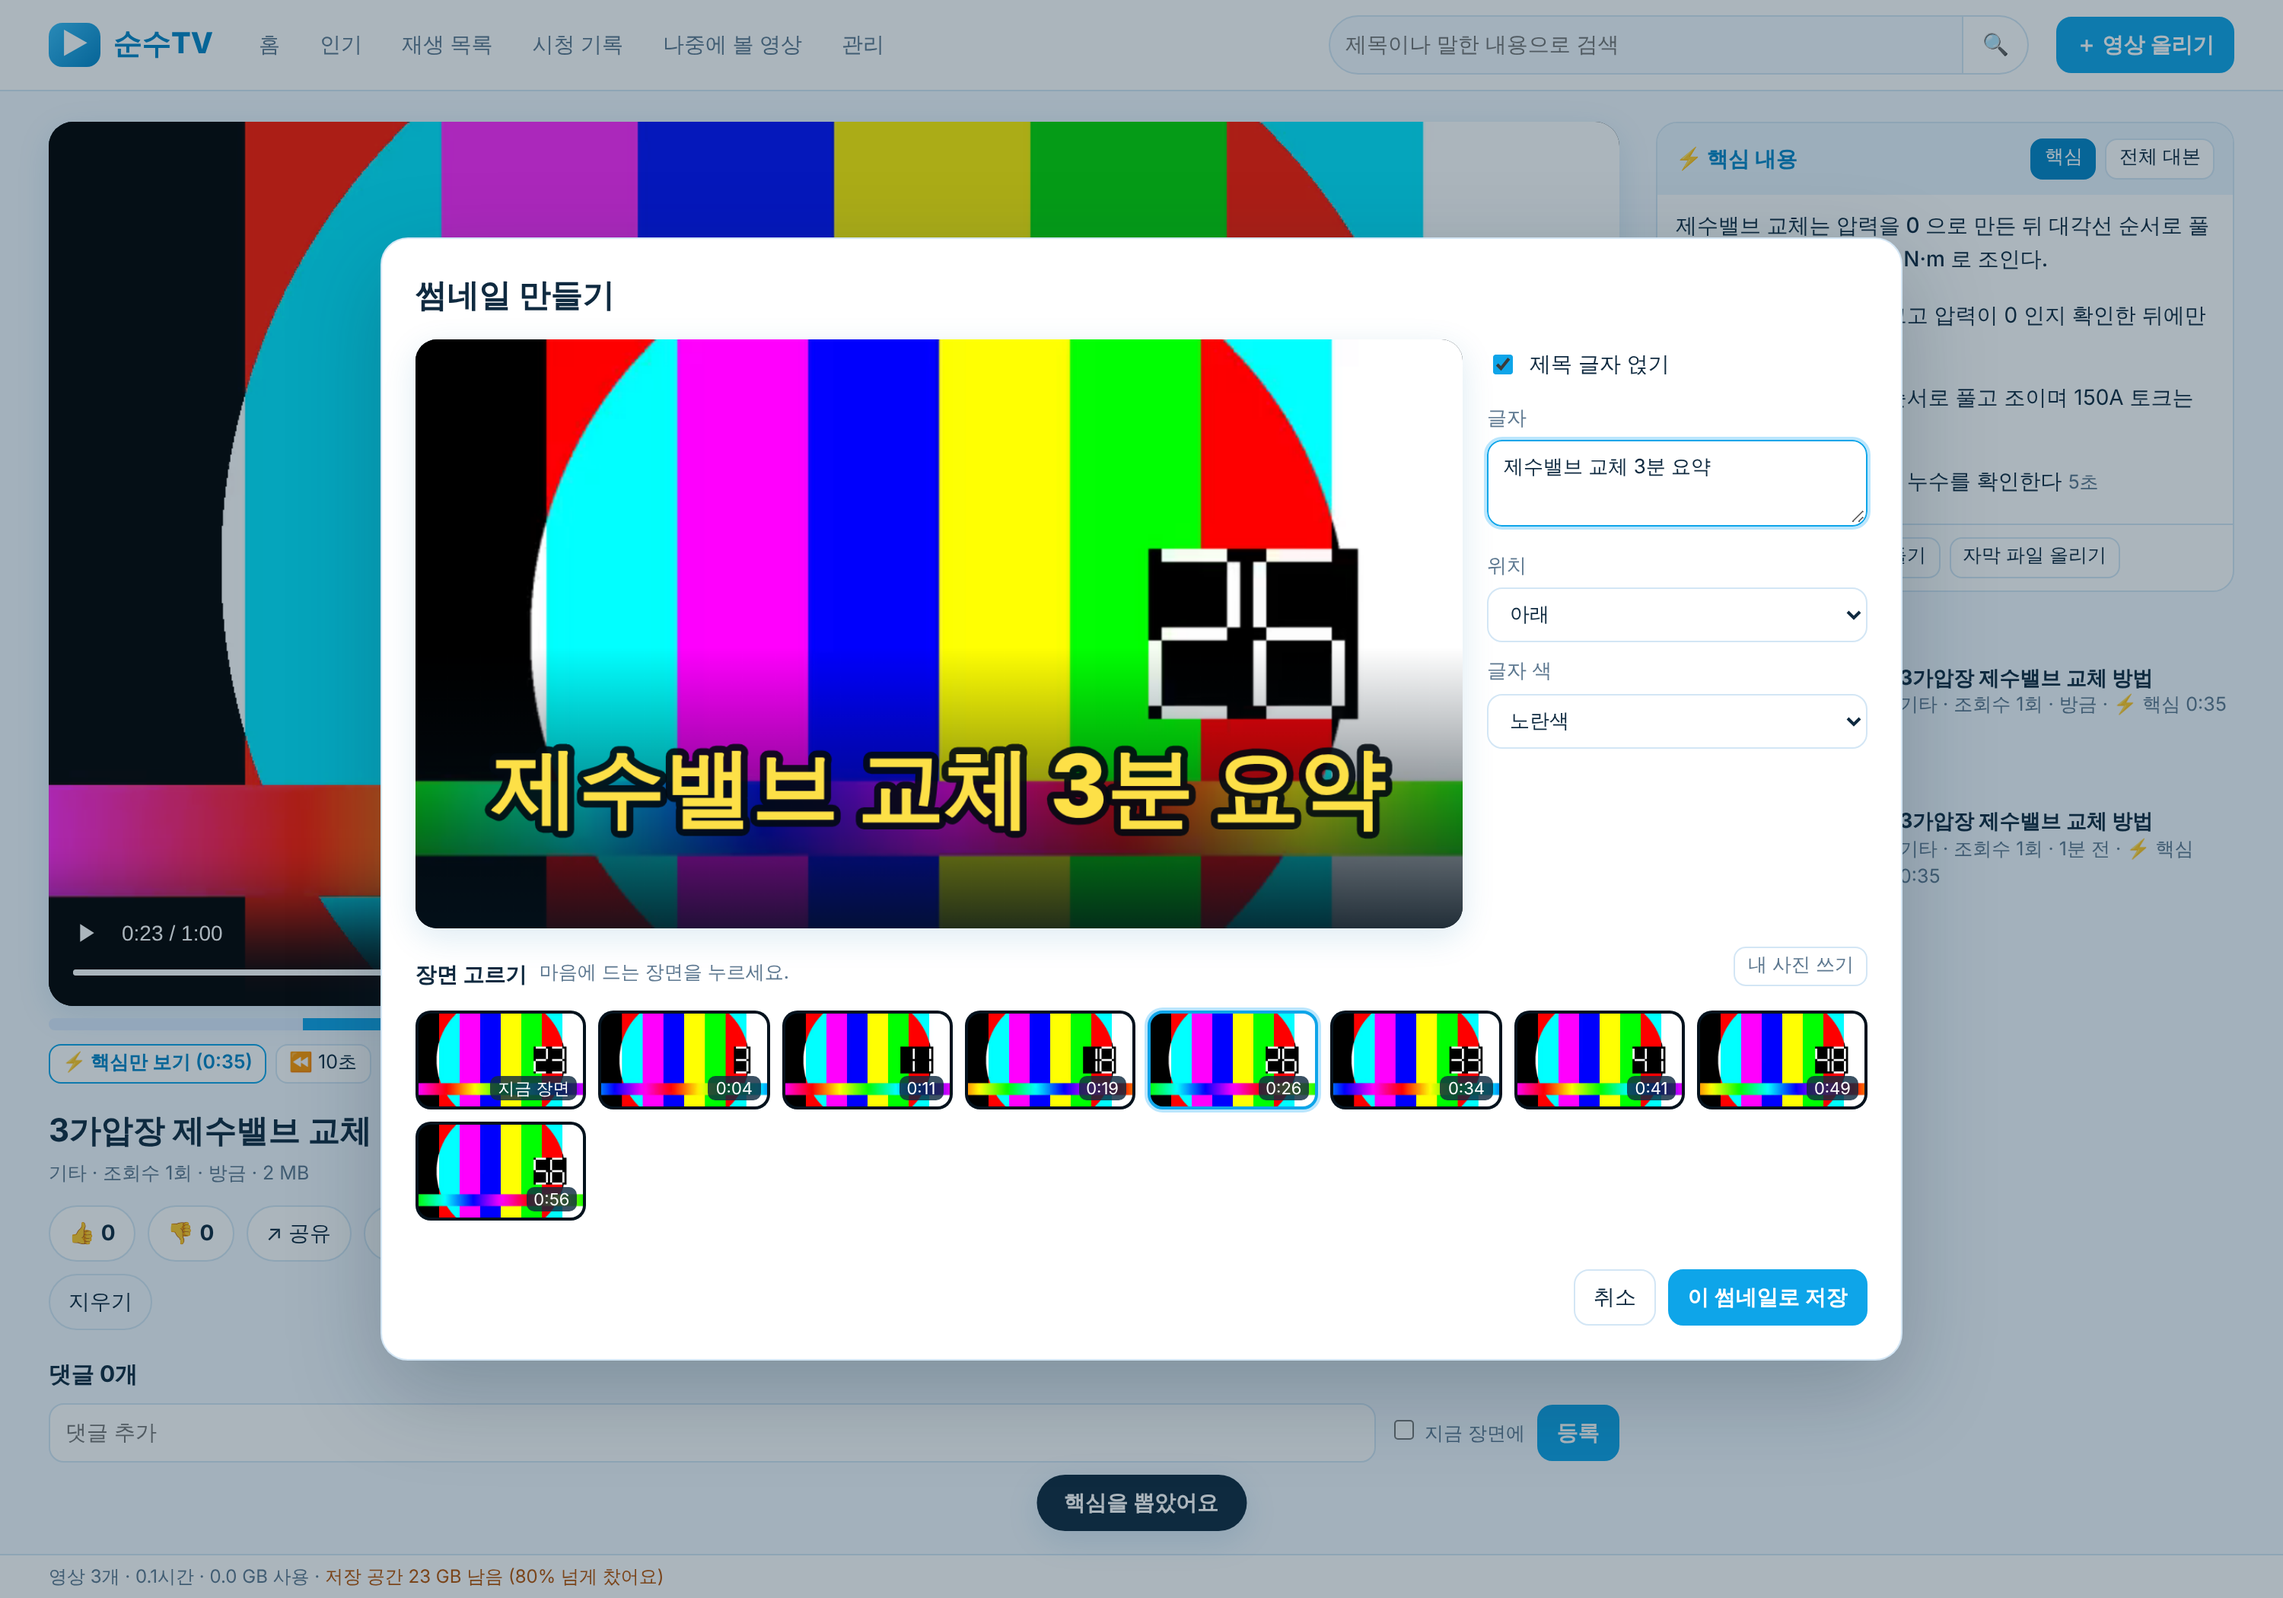
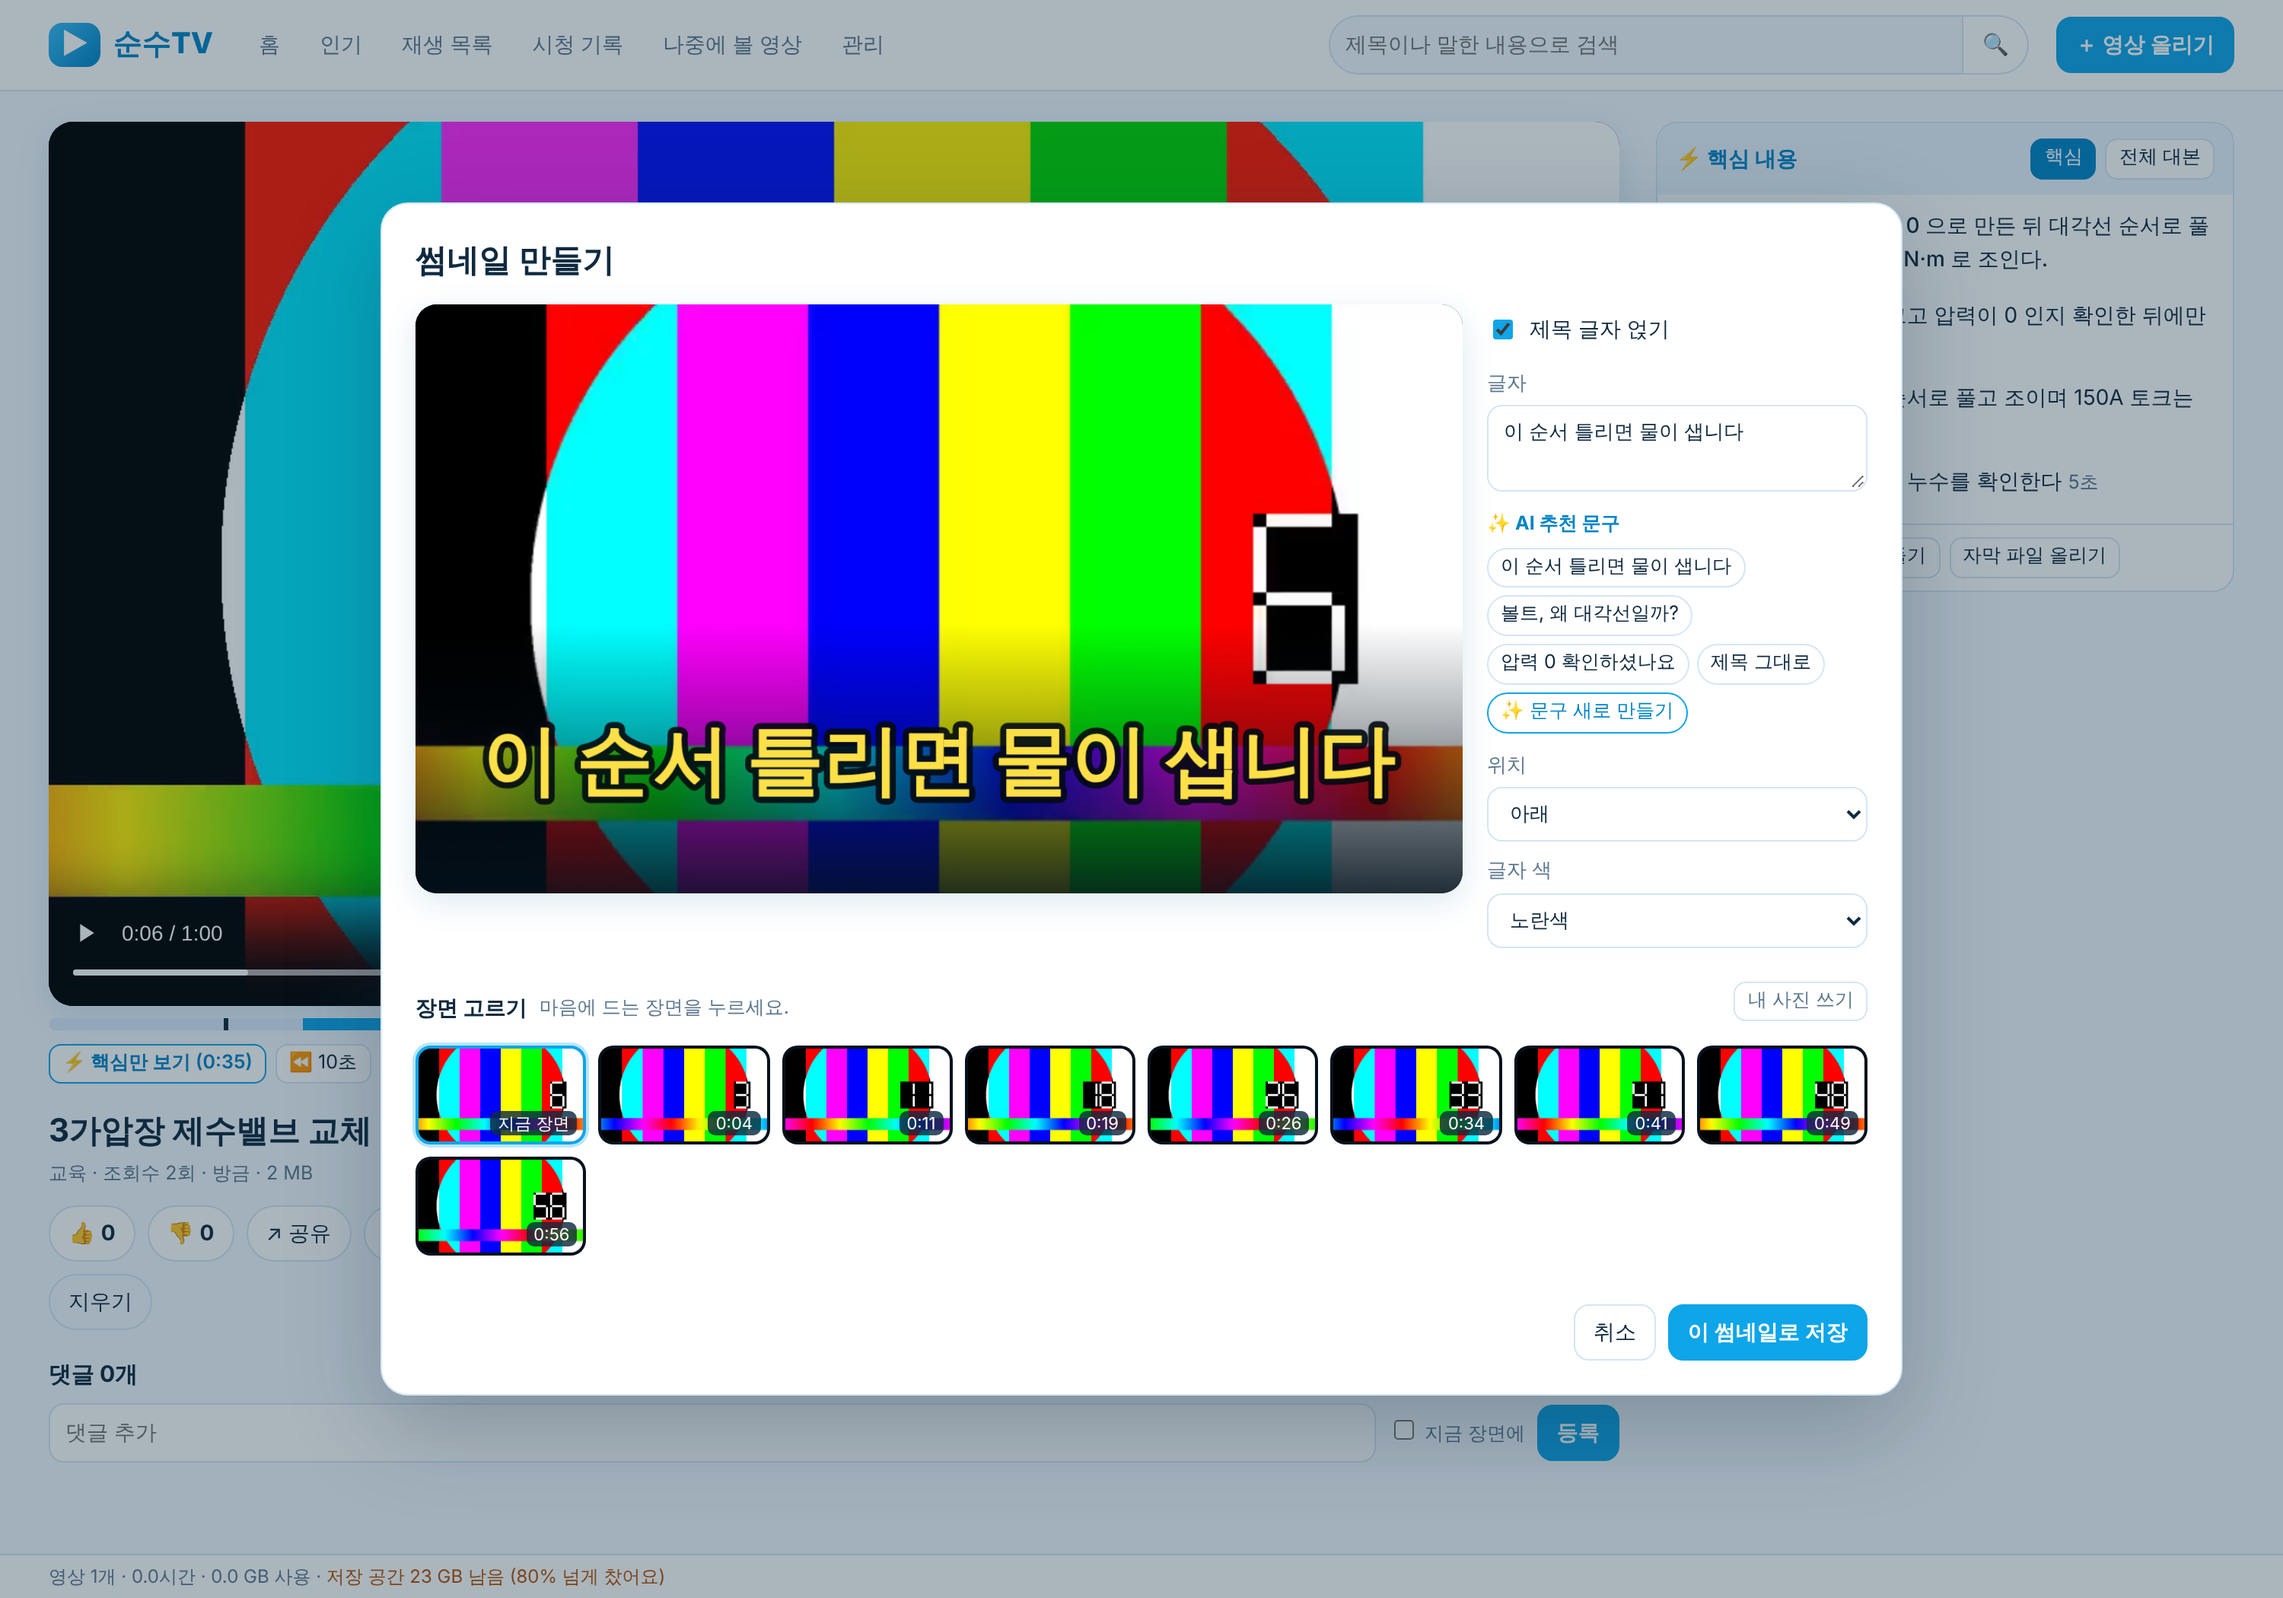
AI 썸네일: 영상 내용으로 문구를 만들고 핵심 장면에 얹어 자동으로 썸네일 만들기 (#14)
Claude-Session: https://claude.ai/code/session_01WFWMCxUpiuvt1NbcY57aW6

diff --git a/module/web/app.js b/module/web/app.js
@@ -233,11 +233,21 @@ function drawThumb(cv, frame, o) {
   g.textAlign = 'center'; g.textBaseline = 'top'; g.lineJoin = 'round'; g.lineWidth = sz * 0.16; g.strokeStyle = 'rgba(2,10,18,.9)'; g.fillStyle = { white: '#ffffff', yellow: '#fde047', sky: '#7dd3fc' }[o.color] || '#fff';
   lines.forEach((l, i) => { g.strokeText(l, W / 2, y0 + i * lh); g.fillText(l, W / 2, y0 + i * lh); });
 }
-function thumbPicker({ v, src, at }) {
+const paintFit = (canvas, img, iw, ih) => { const g = canvas.getContext('2d'), k = Math.min(canvas.width / iw, canvas.height / ih), w = iw * k, h = ih * k; g.fillStyle = '#04121d'; g.fillRect(0, 0, canvas.width, canvas.height); g.drawImage(img, (canvas.width - w) / 2, (canvas.height - h) / 2, w, h); };
+function composeThumb(src, t, o) {
+  return new Promise((resolve) => { const tv = document.createElement('video'), cv = document.createElement('canvas'), frame = document.createElement('canvas'); cv.width = frame.width = 1280; cv.height = frame.height = 720; tv.muted = true; tv.preload = 'auto';
+    const end = (b) => { clearTimeout(to); tv.removeAttribute('src'); tv.load(); resolve(b); }, to = setTimeout(() => end(null), 15000);
+    tv.addEventListener('error', () => end(null));
+    tv.addEventListener('loadeddata', () => { tv.addEventListener('seeked', () => { try { paintFit(frame, tv, tv.videoWidth || 16, tv.videoHeight || 9); drawThumb(cv, frame, o); cv.toBlob((b) => end(b), 'image/jpeg', 0.92); } catch { end(null); } }, { once: true });
+      tv.currentTime = Math.max(0, Math.min((tv.duration || 1) - 0.1, t)); }, { once: true });
+    tv.src = src; });
+}
+function thumbPicker({ v, src, at, hooks }) {
   return new Promise((resolve) => {
     const d = $('#dlg'); d.classList.add('wide');
     d.innerHTML = `<h2>썸네일 만들기</h2><div class="thgrid"><canvas id="thCv" width="1280" height="720"></canvas>
-        <div class="thopt"><label class="pick"><input type="checkbox" id="thOn" checked> 제목 글자 얹기</label><label>글자 <textarea id="thText" rows="2" maxlength="60">${esc(v.title)}</textarea></label>
+        <div class="thopt"><label class="pick"><input type="checkbox" id="thOn" checked> 제목 글자 얹기</label><label>글자 <textarea id="thText" rows="2" maxlength="60">${esc((hooks && hooks[0]) || v.title)}</textarea></label>
+          <div id="thHooks" class="thhooks"></div>
           <label>위치 <select id="thPos"><option value="bottom">아래</option><option value="mid">가운데</option><option value="top">위</option></select></label>
           <label>글자 색 <select id="thColor"><option value="white">흰색</option><option value="yellow">노란색</option><option value="sky">하늘색</option></select></label></div></div>
       <div class="row" style="justify-content:flex-start;margin:12px 0 6px"><b>장면 고르기</b><span class="meta">마음에 드는 장면을 누르세요.</span><span class="sp"></span><label class="filebtn"><input id="thFile" type="file" accept="image/*" hidden>내 사진 쓰기</label></div>
@@ -247,7 +257,10 @@ function thumbPicker({ v, src, at }) {
     const tv = document.createElement('video'); tv.muted = true; tv.preload = 'auto'; tv.src = src;
     const opt = () => ({ on: $('#thOn', d).checked, text: $('#thText', d).value, pos: $('#thPos', d).value, color: $('#thColor', d).value });
     const redraw = () => { if (has) drawThumb(cv, frame, opt()); $('#thSave', d).disabled = !has; };
-    const paint = (canvas, img, iw, ih) => { const g = canvas.getContext('2d'), k = Math.min(canvas.width / iw, canvas.height / ih), w = iw * k, h = ih * k; g.fillStyle = '#04121d'; g.fillRect(0, 0, canvas.width, canvas.height); g.drawImage(img, (canvas.width - w) / 2, (canvas.height - h) / 2, w, h); };
+    const paint = paintFit; let hk = hooks || [];
+    const drawHooks = () => { $('#thHooks', d).innerHTML = (hk.length ? '<b>✨ AI 추천 문구</b>' : '') + [...hk, v.title].map((h, i) => `<button class="small" data-h="${esc(h)}">${i === hk.length ? '제목 그대로' : esc(h)}</button>`).join('') + (meta.llm ? '<button class="small ghost" id="thMore">✨ 문구 새로 만들기</button>' : '');
+      $$('#thHooks [data-h]', d).forEach((b) => b.onclick = () => { $('#thText', d).value = b.dataset.h; redraw(); });
+      if ($('#thMore', d)) $('#thMore', d).onclick = async (e) => { e.target.disabled = true; e.target.textContent = '만드는 중…'; try { hk = (await api(`api/videos/${v.id}/hooks`, send('POST'))).hooks; if (hk[0]) { $('#thText', d).value = hk[0]; redraw(); } } catch (er) { $('#thMsg', d).textContent = er.message; } drawHooks(); }; };
     const grab = (t, canvas) => (chain = chain.then(() => new Promise((ok) => { if (settled) return ok(); const done = () => { clearTimeout(to); try { paint(canvas, tv, tv.videoWidth || 16, tv.videoHeight || 9); } catch { } ok(); }, to = setTimeout(done, 6000);
       tv.addEventListener('seeked', done, { once: true }); tv.currentTime = Math.max(0, Math.min((tv.duration || v.duration || 1) - 0.1, t)); })));
     const pick = async (t, el) => { $$('.thc', d).forEach((x) => x.classList.toggle('on', x === el)); await grab(t, frame); has = true; redraw(); };
@@ -259,6 +272,7 @@ function thumbPicker({ v, src, at }) {
     tv.addEventListener('error', () => { $('#thMsg', d).textContent = '영상에서 장면을 가져오지 못했어요. "내 사진 쓰기"로 사진을 올릴 수 있어요.'; });
     ['#thOn', '#thText', '#thPos', '#thColor'].forEach((q) => { $(q, d).oninput = redraw; });
     $('#thFile', d).onchange = (e) => { const f = e.target.files[0]; if (!f) return; const img = new Image(), url = URL.createObjectURL(f); img.onload = () => { paint(frame, img, img.naturalWidth, img.naturalHeight); URL.revokeObjectURL(url); has = true; $$('.thc', d).forEach((x) => x.classList.remove('on')); redraw(); }; img.onerror = () => { $('#thMsg', d).textContent = '사진을 읽지 못했어요. JPG 나 PNG 로 올려 주세요.'; }; img.src = url; };
+    drawHooks();
     $('#thCancel', d).onclick = () => finish(false);
     $('#thSave', d).onclick = () => cv.toBlob(async (blob) => { try { await api(`api/videos/${v.id}/thumb`, { method: 'PUT', headers: { 'Content-Type': 'image/jpeg' }, body: blob }); finish(true); } catch (e) { $('#thMsg', d).textContent = e.message; } }, 'image/jpeg', 0.92);
     d.addEventListener('close', () => finish(false), { once: true }); d.showModal();
@@ -393,8 +407,11 @@ async function watch(id, params) {
   }
   function watchInsight() { if (!P || !['queued', 'working'].includes(ins.status)) return; clearInterval(poll);
     poll = setInterval(async () => { const r = await api(`api/videos/${id}/insight`).catch(() => null); if (!r) return; const done = !['queued', 'working'].includes(r.insight.status);
-      if (done) { clearInterval(poll); poll = null; if (r.insight.points.length) toast('핵심을 뽑았어요'); } if (!editing && (done || r.insight.status !== ins.status)) { ins = r.insight; renderCore(); } }, 3000); }
-  renderCore(); watchInsight();
+      if (done) { clearInterval(poll); poll = null; if (r.insight.points.length) toast('핵심을 뽑았어요'); } if (!editing && (done || r.insight.status !== ins.status)) { ins = r.insight; renderCore(); if (done) autoThumb(); } }, 3000); }
+  async function autoThumb() { if (!P || link || v.customThumb || v.autoThumb || !(ins.hooks || []).length) return; v.autoThumb = true;
+    const t = ins.points[0] ? Math.min(ins.points[0].s + 1, ins.points[0].e) : (v.duration || 0) * 0.1, blob = await composeThumb(src(v.low ? '360' : '720'), t, { on: true, text: ins.hooks[0], pos: 'bottom', color: 'white' }); if (!blob) return;
+    try { const r = await api(`api/videos/${id}/thumb?auto=1`, { method: 'PUT', headers: { 'Content-Type': 'image/jpeg' }, body: blob }); if (!r.skipped) { v.thumbVer = r.video.thumbVer; toast('AI 가 썸네일을 만들었어요'); } } catch { } }
+  renderCore(); watchInsight(); autoThumb();
   if (P && params.get('core') === '1' && ins.points.length) P.addEventListener('loadedmetadata', () => { P.currentTime = ins.points[0].s; setCore(true); }, { once: true });
 
   const vote = async (kind) => { const map = ls.get('liked', {}), cur = map[v.id] || 0, want = kind === 'like' ? 1 : -1; let r;
@@ -417,7 +434,7 @@ async function watch(id, params) {
       <label>공개 범위 <select id="eVis"><option value="public">공개 (목록과 검색에 보임)</option><option value="unlisted" ${v.visibility === 'unlisted' ? 'selected' : ''}>링크로만 (목록에 숨김)</option></select></label><p id="eMsg" class="msg bad"></p><div class="row"><button data-close class="ghost">취소</button><button id="eSave" class="primary">저장</button></div>`);
     $('#eSave', dg).onclick = async () => { try { await api('api/videos/' + id, send('PATCH', { title: $('#eTitle', dg).value, category: $('#eCat', dg).value, desc: $('#eDesc', dg).value, tags: $('#eTags', dg).value, visibility: $('#eVis', dg).value })); dg.close(); route(); } catch (e) { $('#eMsg', dg).textContent = e.message; } }; };
   $('#thumbBtn').onclick = async () => { if (!P) return toast('영상 변환이 끝난 뒤에 바꿀 수 있어요'); P.pause();
-    if (await thumbPicker({ v, src: src(v.low ? '360' : '720'), at: P.currentTime })) { toast('썸네일을 바꿨어요'); route(); } };
+    if (await thumbPicker({ v, src: src(v.low ? '360' : '720'), at: P.currentTime, hooks: ins.hooks })) { toast('썸네일을 바꿨어요'); route(); } };
   $('#trimBtn').onclick = async () => { if (!P) return toast('영상 변환이 끝난 뒤에 편집할 수 있어요'); P.pause();
     const keep = await rangeEditor({ src: src('720'), title: v.title, points: ins.points }); if (!keep) return;
     if (!confirm(`고른 ${keep.length}개 구간만 남기고 나머지는 지워요. 되돌릴 수 없어요. 계속할까요?`)) return;

diff --git a/module/web/style.css b/module/web/style.css
@@ -131,3 +131,4 @@ dialog.wide{width:min(1000px,96vw)}.thgrid{display:grid;grid-template-columns:mi
 #thCv{width:100%;aspect-ratio:16/9;border-radius:14px;background:#04121d;display:block;box-shadow:var(--shadow)}.thopt label{margin-bottom:10px}.thopt .pick{color:var(--text);font-size:14px}
 .thcands{display:grid;grid-template-columns:repeat(auto-fill,minmax(104px,1fr));gap:8px}.thc{padding:0;border:2px solid transparent;border-radius:10px;overflow:hidden;background:#04121d;position:relative;line-height:0}
 .thc canvas{width:100%;aspect-ratio:16/9;display:block}.thc span{position:absolute;right:4px;bottom:4px;background:rgba(15,42,64,.82);color:#fff;border-radius:5px;padding:0 5px;font-size:11px;line-height:1.5}.thc.on{border-color:var(--accent);box-shadow:0 0 0 2px #bae6fd}
+.thhooks{display:flex;flex-wrap:wrap;gap:5px;margin:-4px 0 12px}.thhooks b{flex-basis:100%;font-size:12.5px;color:var(--accent2)}.thhooks button{border-radius:14px}
